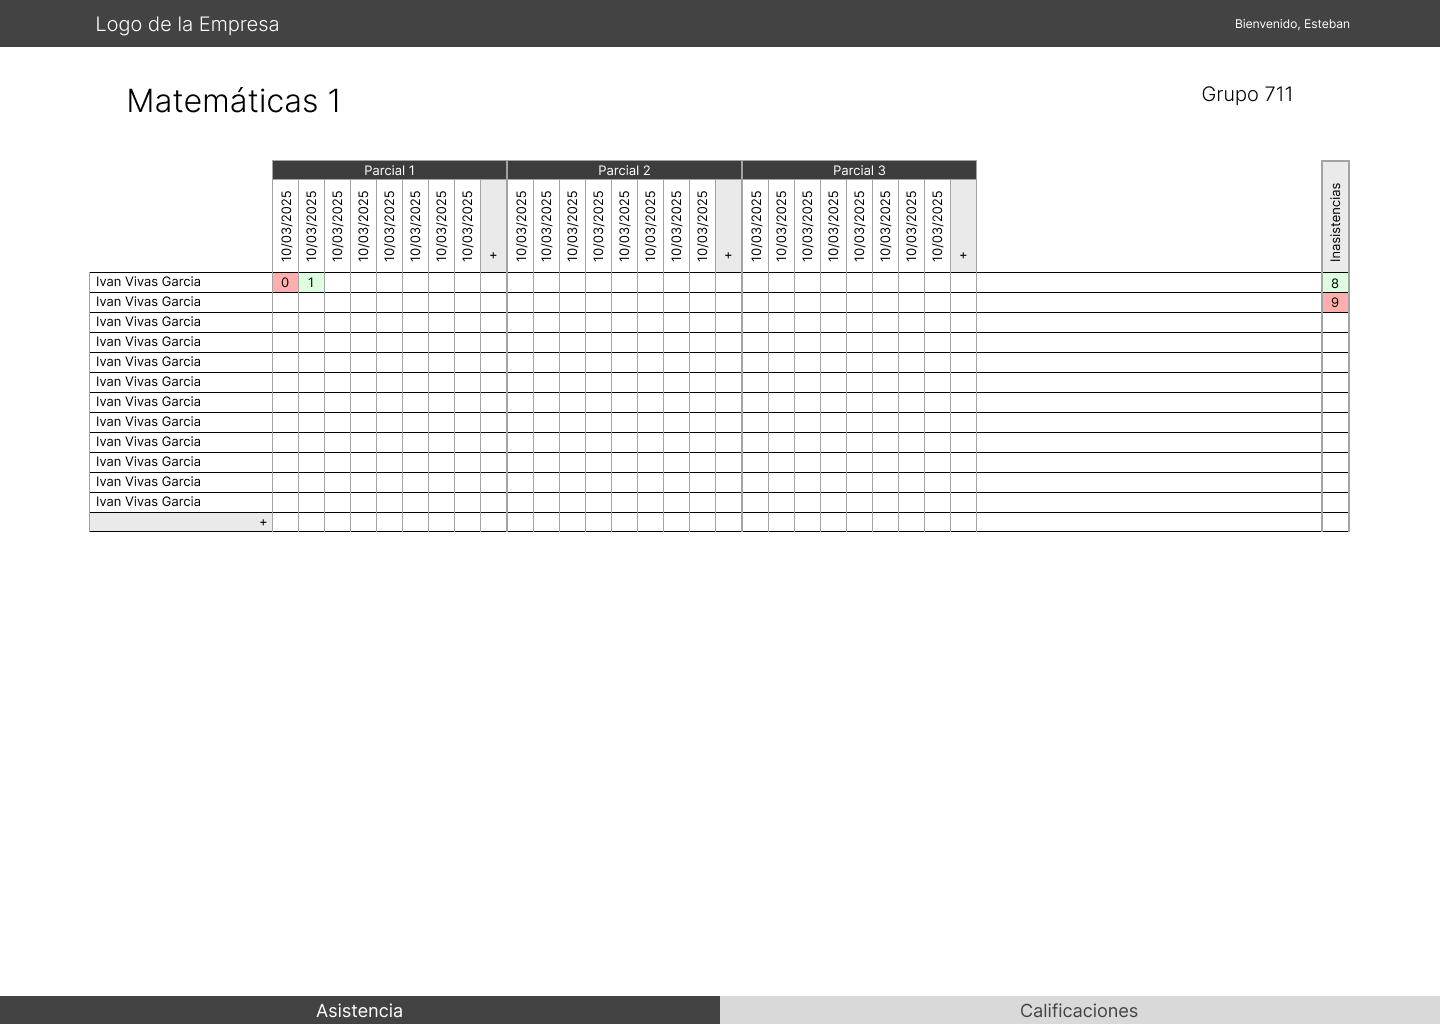
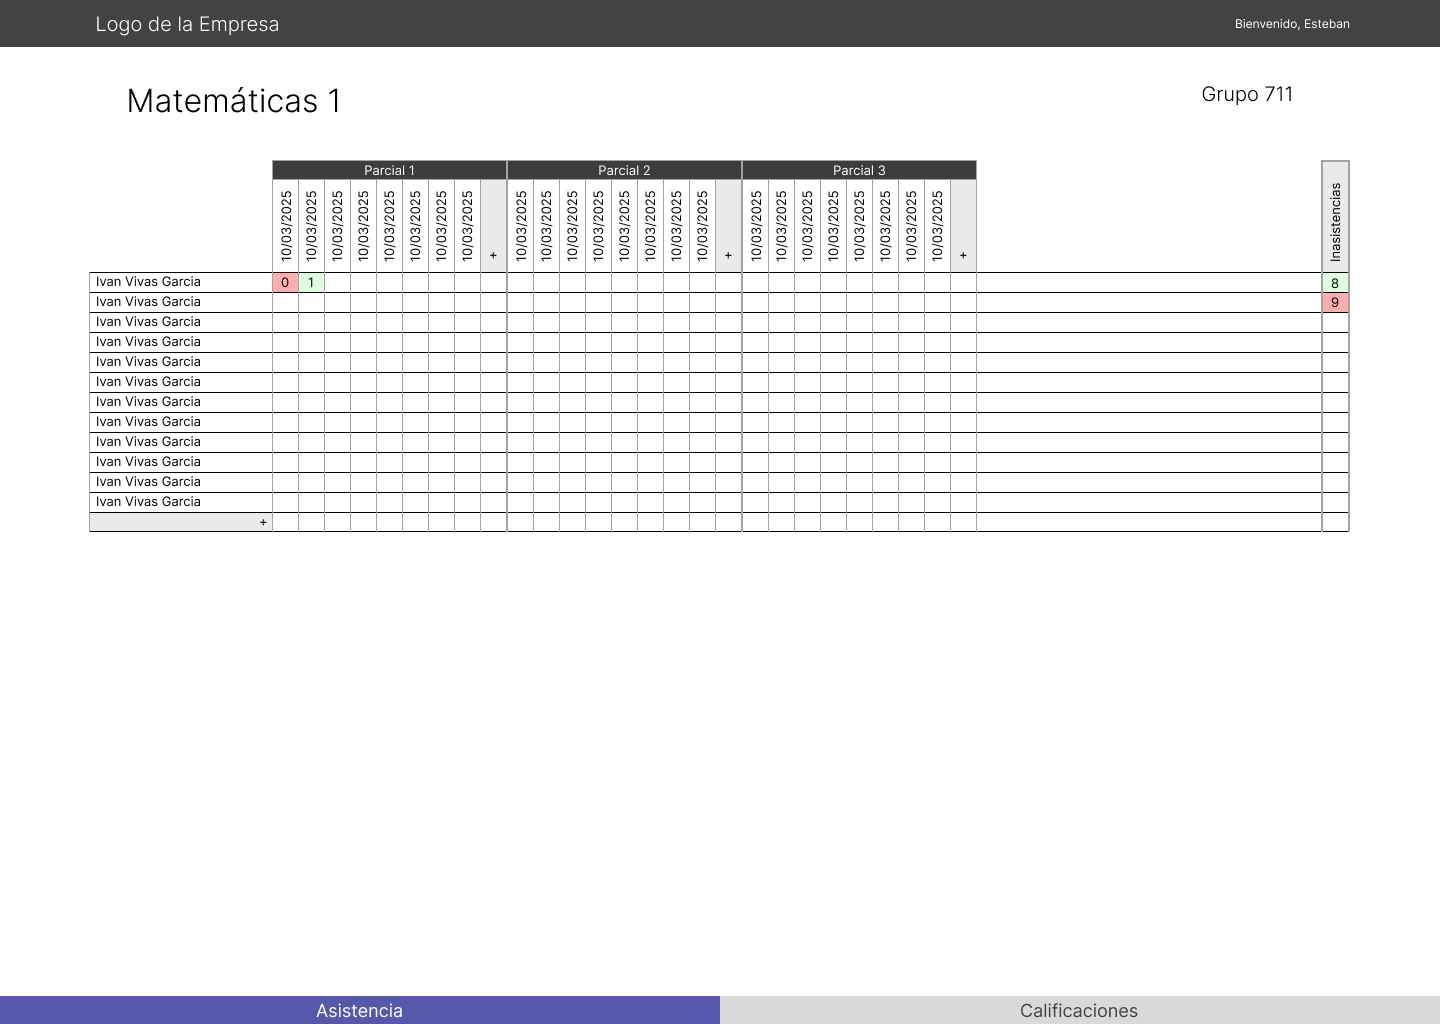
Added interfaces description and logic behind each one of them

Changed region(s): [[0.0, 0.9688, 0.5, 1.0]]

diff --git a/Documentation/Interfaces/Overlays/newActivityOverlay.md b/Documentation/Interfaces/Overlays/newActivityOverlay.md
@@ -1,0 +1,28 @@
+# NewActivityOverlay
+
+## Description
+
+The newActivityOverlay is a window that appears when the user clicks on the "+" button on the gradesPage. This window will allow the user to add a new activity to the students. (newActivityOverlay.png for a better understanding)
+
+## Interactivity
+
+The newActivityOverlay has several interactive elements:
+
+- A text input to introduce the name of the activity.
+- A text field to introduce the description of the activity.
+- A checkbox to indicate if the activity has a fixed weight. If it does, a text field will appear to introduce the weight of the activity. If it doesn't, the system will assign an automatic weight to the activity.
+- A text field to introduce the scale of the activity. The scale can be any scale as the system will calculate the final grade based on the scale introduced. Example: 0 / 30, where 0 is the minimum grade and 30 is the maximum grade.
+- A checkbox to indicate if the activity is an extra activity, if it is, the system will force the fixed weight checkbox to be checked and the weight to be introduced. This will activity won't be included in the calculation of the final grade, and only matter in the following situations:
+    - The student doesn't have the maximum grade without the extra points.
+    Examples:
+        Suppose we have an extra activity worth 10%.
+
+        The student has a grade of 9/10, if the extra activity is a 10/10, the final grade will be 10.
+        The student has a grade of 9.5/10, if the extra activity is a 10/10, the final grade will be 10.
+        The student has a grade of 8.5/10, if the extra activity is a 10/10, the final grade will be 9.5.
+        The student has a grade of 8/10, if the extra activity is a 10/10, the final grade will be 9.
+- A button to create the activity.
+
+## Logic
+
+The newActivityOverlay will allow the user to add a new activity to the students. The user will introduce the name of the activity and the weight of the activity. The weight will be a number between 0 and 100. The system will then add the activity to the students and move to the gradesPage.

diff --git a/Documentation/Interfaces/Overlays/subjectConfigOverlay.md b/Documentation/Interfaces/Overlays/subjectConfigOverlay.md
@@ -1,0 +1,19 @@
+# SubjectConfigOverlay
+
+## Description
+
+The subjectConfigOverlay is a window that appears when the user clicks on the "+" button on the mainPage and under the University's section. This window will allow the user to configure a new subject, such as name, allowed absences, amount of groups, and the name of the groups.
+
+## Interactivity
+
+The subjectConfigOverlay has several interactive elements:
+
+- A text input to introduce the name of the subject.
+- A text field to introduce the absences allowed. The absences allowed can be any number, this number will be used to check if the student has exceeded the absences allowed, and in the attendacePage, if the student has exceeded the absences allowed, the background of the cell will be red, otherwise, it will be green.
+- A text field to introduce the amount of groups. The amount of groups can be any number, this number will be used to create the groups.
+- A text field to introduce the name of the groups. The name of the groups can be any string, this string will be used to create the groups. The system will check if the number of groups names is equal to the amount of groups, if it is not, the system will warn the user and ask for the name of the groups again. The system expects group names to be introduces separated by a comma. Example: Group 1, Group 2, Group 3. The system will remove the spaces at the front and back of the string, not the spaces in the group names. Based on the previous example, the system will create 3 groups named "Group 1", "Group 2", and "Group 3".
+- A button to create the subject.
+
+## Logic
+
+The subjectConfigOverlay will allow the user to configure the subject, such as the name, the scale, the absences allowed, and the midterms. The user will introduce the name of the subject and the scale of the subject. The scale will be a number between 0 and 100. The system will then add the subject to the students and move to the gradesPage.

diff --git a/Documentation/Interfaces/gradesPage.md b/Documentation/Interfaces/gradesPage.md
@@ -8,6 +8,8 @@ The grades page objective is to show the grades of the students in a table forma
 
 Same general interactivity as the attendancePage. Students names can be modified by clicking on them and introducing the new name. The user can click on the "+" button to add a new activity, the newActivityOverlay will appear (newActivityOverlay.png for a better understanding). The user can click on the "+ Evaluacion" button to add a new evaluation, the newEvaluationOverlay will appear (newEvaluationOverlay.png for a better understanding). As the attendancePage, the user clicks on a cell to modify the grade of the student, and the system will move to the next cell in a cascading manner. Above the "Attendance" and "Grades" buttons there are a n amount of buttons (depending on the ammount of midterms indicated in the University's settings). Clicking on one of them will move the system to the corresponding midtermPage with its corresponding grades.
 
+The student list, by default, is ordered alphabetically, but the user can click and drag a student to reorder said student. Hoover will allow the user to see more clearly the student's name and grade. When hoovering over the name cell, the system will enlarge the whole row of the student, so the user can see the student's name and grade more clearly, this will also be the case for the columns, so the user can see and identify easily the activity or attendance data. Finally, when the user hoovers over a cell, the system will enlarge the row and column of the cell, so the user can identify specifically the data of that particular cell.
+
 ## Logic
 
 This page will provide the teacher with the ability to add activities and evaluations to the students. Lets make an example:

diff --git a/Documentation/Interfaces/Overlays/newEvaluationOverlay.md b/Documentation/Interfaces/Overlays/newEvaluationOverlay.md
@@ -1,0 +1,19 @@
+# newEvaluationOverlay
+
+## Description
+
+The newEvaluationOverlay is a window that appears when the user clicks on the "+ Evaluacion" button on the gradesPage. This window will allow the user to configure a new evaluation, such as name and weight.
+
+## Interactivity
+
+The newEvaluationOverlay has several interactive elements:
+
+- A text input to introduce the name of the evaluation.
+- A checkbox to indicate if the evaluation is fixed or automatic. If the evaluation is fixed, the user will be asked to introduce the weight of the evaluation.
+- A button to create the evaluation.
+
+## Logic
+
+The newEvaluationOverlay will allow the user to configure the evaluation, such as the name and the weight. The user will introduce the name of the evaluation and the weight of the evaluation in case the evaluation is fixed. The weight will be a number between 0 and 100. The system will then add the evaluation to the students and move to the gradesPage.
+
+If the evaluation is automatic, the system will assign itself a weight. In the case that the evaluation is fixed, the system will check if the weight fits the remaining weight of the evaluations. If it doesn't, the system will warn the user and ask for the weight again.

diff --git a/Documentation/Interfaces/Overlays/schoolConfigOverlay.md b/Documentation/Interfaces/Overlays/schoolConfigOverlay.md
@@ -1,0 +1,14 @@
+# schoolConfigOverlay
+
+## Description
+
+The schoolConfigOverlay, as the name suggests, is the overlay that allows the user to configure the school's data, such as school name, the minimum grade to pass and the amount of midterms.
+
+## Interactivity
+
+The schoolConfigOverlay has several interactive elements:
+
+- A text input to introduce the name of the school.
+- A text field to introduce the minimum grade to pass. The minimum grade to pass can be any number between 0 and 100.
+- A text field to introduce the amount of midterms. The amount of midterms can be any number. This number will be used to create the midterms in the gradesPage and in the attendancePage.
+- A button to create the school.

diff --git a/Documentation/Interfaces/Overlays/errorOverlay.md b/Documentation/Interfaces/Overlays/errorOverlay.md
@@ -1,0 +1,9 @@
+# ErrorOverlay
+
+## Description
+
+The errorOverlay is a window that appears when the user introduces invalid data. This window will allow the user to see the error and correct it.
+
+## Logic
+
+The errorOverlay will allow the user to see the error and correct it.
